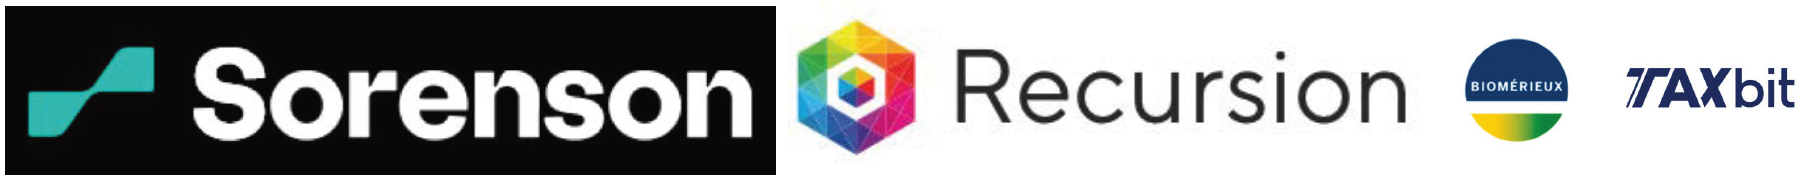
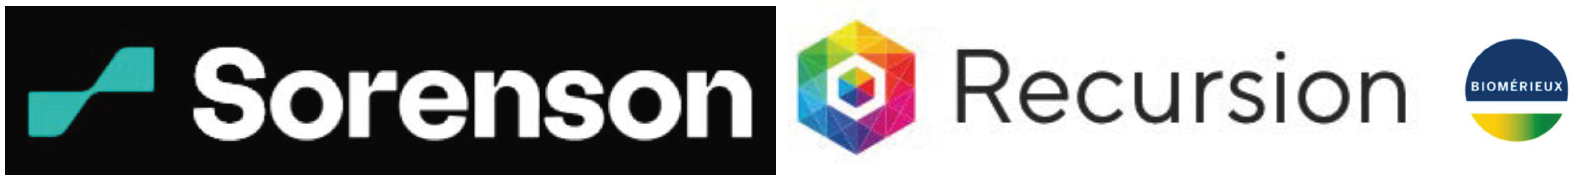
Updated career fair companies

Changed region(s): [[0.0, 0.0278, 0.9918, 0.9722], [0.6818, 0.2778, 0.7128, 0.3333]]

diff --git a/events/2023/data-science-day/index.md b/events/2023/data-science-day/index.md
@@ -72,7 +72,7 @@ See the [schedule poster](./assets/data-science-day-schedule.pdf) for more infor
 |  |  | &nbsp;&nbsp;- Learn about ongoing projects, find collaborators |
 | 01:00 PM - 02:00 PM |  | Career Fair Set-up (encourage industry participants to view posters etc) |
 | 02:00 PM - 05:30 PM |  | Career Fair |
-|  |  | &nbsp;&nbsp;- Companies include our event sponsors: Sorenson, Recursion, BioMerieux, TaxBit |
+|  |  | &nbsp;&nbsp;- Companies include our event sponsors: Sorenson, Recursion, BioMerieux |
 
 ----
 
@@ -98,7 +98,7 @@ Jeff is Chief Data Officer, Vice President, and J Orin Edson Foundation Chair of
 
 ### Career Fair
 
-Attend the career fair to meet with companies including our sponsors: Sorenson, Recursion, BioMerieux, TaxBit
+Attend the career fair to meet with companies including our sponsors: Sorenson, Recursion, BioMerieux
 
 <img src="imgs/sponsors.png" alt="Sponsor logos for data science day 2023" width="100%" />
 
